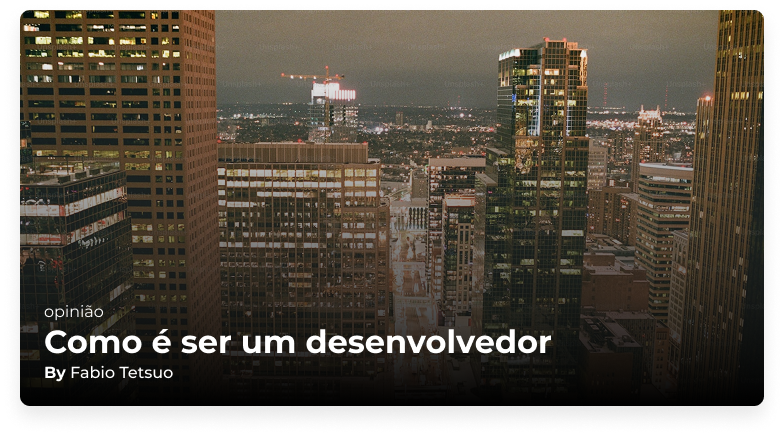
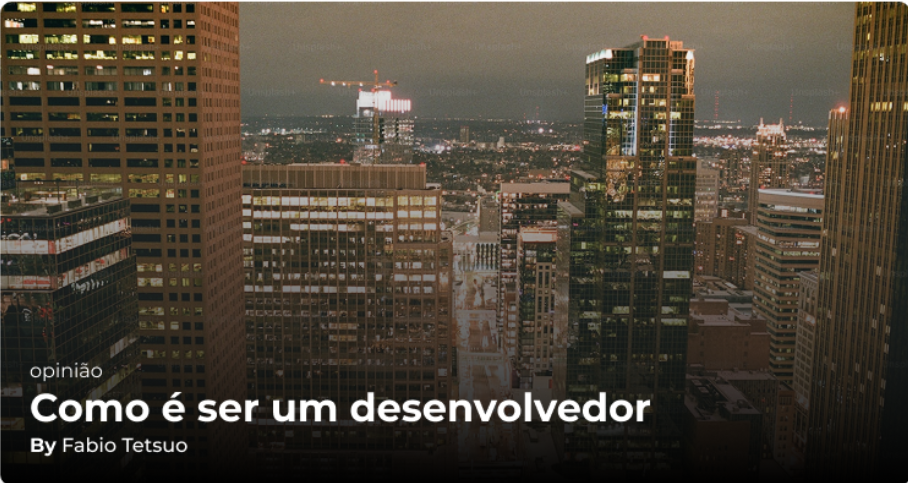
responsividade tablet

diff --git a/index.html b/index.html
@@ -16,127 +16,138 @@
     <header class="title">
         <h1>The Dev News</h1>
     </header>
-    <!-- MAIN -->
-    <main>
-        <section class="banner">
-            <img id="banner-img" src="./assets/banner.png" alt="">
-            <!-- <div id="banner-info">
-                <span>opnião</span>
-                <h1>Como é ser um desenvolvedor</h1>
-                <p><b>by</b> Fabio Tetsuo</p>
-            </div> -->
-        </section>
-        <section class="last-posts-title">
-            <h2>Posts mais recentes</h2>
-            <a href="#">Ver todos</a>
-        </section>
-        <section class="last-posts">
-            <ul class="last-posts-list">
-                <li class="last-posts-item">
-                    <img src="./assets/post1.svg" alt="">
-                    <div class="post-info">
-                        <p id="theme">desenvolvimento</p>
-                        <h3 id="title">Desenvolvimento mobile</h3>
-                        <p><b>By</b> Fabio Tetsuo</p>
-                        <p>
-                            Lorem ipsum dolor sit amet consectetur. 
-                            In vitae urna commodo amet congue integer 
-                            dapibus. Interdum semper mauris convallis 
-                            fusce enim odio. Vitae montes ridiculus felis.
-                        </p>
-                        <span>22 Agosto 2022</span>
+    <!-- CONTAINER -->
+    <div id="container">
+        <!-- MAIN -->
+        <main>
+            <section class="banner">
+                <img id="banner-img" src="./assets/banner.png" alt="">
+                <!-- <div id="banner-info">
+                    <span>opnião</span>
+                    <h1>Como é ser um desenvolvedor</h1>
+                    <p><b>by</b> Fabio Tetsuo</p>
+                </div> -->
+            </section>
+            <section class="last-posts-title">
+                <h2>Posts mais recentes</h2>
+                <a href="#">Ver todos</a>
+            </section>
+            <section class="last-posts">
+                <ul class="last-posts-list">
+                    <li class="last-posts-item">
+                        <img src="./assets/post1.svg" alt="">
+                        <div class="post-info">
+                            <p id="theme">desenvolvimento</p>
+                            <h3 id="title">Desenvolvimento mobile</h3>
+                            <p><b>By</b> Fabio Tetsuo</p>
+                            <p>
+                                Lorem ipsum dolor sit amet consectetur. 
+                                In vitae urna commodo amet congue integer 
+                                dapibus. Interdum semper mauris convallis 
+                                fusce enim odio. Vitae montes ridiculus felis.
+                            </p>
+                            <span>22 Agosto 2022</span>
+                        </div>
+                    </li>
+                    <li class="last-posts-item">
+                        <img src="./assets/post2.svg" alt="">
+                        <div class="post-info">
+                            <p id="theme">saúde</p>
+                            <h3 id="title">Balancear vida profissional e pessoal</h3>
+                            <p><b>By</b> Ridho Satriawan</p>
+                            <p>
+                                Lorem ipsum dolor sit amet consectetur. 
+                                In vitae urna commodo amet congue integer 
+                                dapibus. Interdum semper mauris convallis 
+                                fusce enim odio. Vitae montes ridiculus felis.
+                            </p>
+                            <span>22 Agosto 2022</span>
+                        </div>
+                    </li>
+                    <li class="last-posts-item">
+                        <img src="./assets/post3.svg" alt="">
+                        <div class="post-info">
+                            <p id="theme">desenvolvimento</p>
+                            <h3 id="title">Configurando VSCode</h3>
+                            <p><b>By</b> Fabio Tetsuo</p>
+                            <p>
+                                Lorem ipsum dolor sit amet consectetur. 
+                                In vitae urna commodo amet congue integer 
+                                dapibus. Interdum semper mauris convallis 
+                                fusce enim odio. Vitae montes ridiculus felis.
+                            </p>
+                            <span>22 Agosto 2022</span>
+                        </div>
+                    </li>
+                    <li class="last-posts-item">
+                        <img src="./assets/post4.svg" alt="">
+                        <div class="post-info">
+                            <p id="theme">produtividade</p>
+                            <h3 id="title">2 monitores ou 1 ultrawide</h3>
+                            <p><b>By</b> Fulano da Silva</p>
+                            <p>
+                                Lorem ipsum dolor sit amet consectetur. 
+                                In vitae urna commodo amet congue integer 
+                                dapibus. Interdum semper mauris convallis 
+                                fusce enim odio. Vitae montes ridiculus felis.
+                            </p>
+                            <span>22 Agosto 2022</span>
+                        </div>
+                    </li>
+                </ul>
+            </section>
+        </main>
+        <!-- ASIDE -->
+        <aside>
+            <section class="pop-posts">
+                <h2 class="title" id="pop-posts-title">Posts Populares</h2>
+                <div class="pop-posts-item">
+                    <img src="./assets/pop-post1.svg" alt="">
+                    <div>
+                        <h3>Desenvolvimento atual</h3>
+                        <p>22 Agosto 2025</p>
                     </div>
-                </li>
-                <li class="last-posts-item">
-                    <img src="./assets/post2.svg" alt="">
-                    <div class="post-info">
-                        <p id="theme">saúde</p>
-                        <h3 id="title">Balancear vida profissional e pessoal</h3>
-                        <p><b>By</b> Ridho Satriawan</p>
-                        <p>
-                            Lorem ipsum dolor sit amet consectetur. 
-                            In vitae urna commodo amet congue integer 
-                            dapibus. Interdum semper mauris convallis 
-                            fusce enim odio. Vitae montes ridiculus felis.
-                        </p>
-                        <span>22 Agosto 2022</span>
-                    </div>
-                </li>
-                <li class="last-posts-item">
-                    <img src="./assets/post3.svg" alt="">
-                    <div class="post-info">
-                        <p id="theme">desenvolvimento</p>
-                        <h3 id="title">Configurando VSCode</h3>
-                        <p><b>By</b> Fabio Tetsuo</p>
-                        <p>
-                            Lorem ipsum dolor sit amet consectetur. 
-                            In vitae urna commodo amet congue integer 
-                            dapibus. Interdum semper mauris convallis 
-                            fusce enim odio. Vitae montes ridiculus felis.
-                        </p>
-                        <span>22 Agosto 2022</span>
-                    </div>
-                </li>
-                <li class="last-posts-item">
-                    <img src="./assets/post4.svg" alt="">
-                    <div class="post-info">
-                        <p id="theme">produtividade</p>
-                        <h3 id="title">2 monitores ou 1 ultrawide</h3>
-                        <p><b>By</b> Fulano da Silva</p>
-                        <p>
-                            Lorem ipsum dolor sit amet consectetur. 
-                            In vitae urna commodo amet congue integer 
-                            dapibus. Interdum semper mauris convallis 
-                            fusce enim odio. Vitae montes ridiculus felis.
-                        </p>
-                        <span>22 Agosto 2022</span>
-                    </div>
-                </li>
-            </ul>
-        </section>
-    </main>
-    <!-- ASIDE -->
-    <aside>
-        <section class="pop-posts">
-            <h2 class="title" id="pop-posts-title">Posts Populares</h2>
-            <div class="pop-posts-item">
-                <img src="./assets/pop-post1.svg" alt="">
-                <div>
-                    <h3>Desenvolvimento atual</h3>
-                    <p>22 Agosto 2025</p>
                 </div>
-            </div>
-            <div class="pop-posts-item">
-                <img src="./assets/pop-post2.svg" alt="">
-                <div>
-                    <h3>GitLab vs GitHub</h3>
-                    <p>22 Agosto 2025</p>
+                <div class="pop-posts-item">
+                    <img src="./assets/pop-post2.svg" alt="">
+                    <div>
+                        <h3>GitLab vs GitHub</h3>
+                        <p>22 Agosto 2025</p>
+                    </div>
                 </div>
-            </div>
-            <div class="pop-posts-item">
-                <img src="./assets/pop-post3.svg" alt="">
-                <div>
-                    <h3>Café atrapalha?</h3>
-                    <p>22 Agosto 2025</p>
+                <div class="pop-posts-item">
+                    <img src="./assets/pop-post3.svg" alt="">
+                    <div>
+                        <h3>Café atrapalha?</h3>
+                        <p>22 Agosto 2025</p>
+                    </div>
                 </div>
-            </div>
-        </section>
-        <section class="categories">
-            <h2 class="title" id="categories-title">Categorias</h2>
-            <ul class="categories-list">
-                <li>
-                    > saude <span>(1)</span>
-                </li>
-                <li>
-                    > desenvolvimento <span>(2)</span>
-                </li><li>
-                    > produtividade <span>(2)</span>
-                </li><li>
-                    > opnião <span>(1)</span>
-                </li>
-            </ul>
-        </section>
-    </aside>
+            </section>
+            <section class="categories">
+                <h2 class="title" id="categories-title">Categorias</h2>
+                <ul class="categories-list">
+                    <li>
+                        <a href="#">
+                            > saude <span>(1)</span>
+                        </a>
+                    </li>
+                    <li>
+                        <a href="#">
+                            > desenvolvimento <span>(2)</span>
+                        </a>
+                    </li><li>
+                        <a href="#">
+                            > produtividade <span>(2)</span>
+                        </a>
+                    </li><li>
+                        <a href="#">
+                            > opnião <span>(1)</span>
+                        </a>
+                    </li>
+                </ul>
+            </section>
+        </aside>
+    </div>
     <!-- FOOTER -->
     <footer>
         <span id="copyrightht">Copyright@The Dev News</span>

diff --git a/style.css b/style.css
@@ -7,12 +7,8 @@
 a {
     text-decoration: none;
 }
-body {
-    display: grid;
-    grid-template-columns: 2fr 1fr;
-    gap: 20px;
-    max-width: 1129px;
-    margin: auto;
+li {
+    list-style: none;
 }
 .title {
     background-color: #02A28F;
@@ -30,15 +26,26 @@ header {
     grid-column: span 2;
 }
 header h1 {
+    font-weight: 700;
+    font-size: 2.25rem;
+    line-height: 100%;
+    letter-spacing: 0%;
     margin-left: 9.75rem;
+}
+#container {
+    display: grid;
+    grid-template-columns: 2fr 1fr;
+    gap: 20px;
+    max-width: 1129px;
+    margin: 3.125rem auto;
 }
 #banner-img {
     border-radius: 0.625rem;
-    margin-left: 8.75rem;
+    width: 46.5rem;
+    margin-bottom: 1.5rem;
 }
 .last-posts {
     width: 46.5rem;
-    margin-left: 9.75rem;
 }
 .last-posts-title {
     display: flex;
@@ -47,10 +54,8 @@ header h1 {
     background-color: #02A28F;
     color: #ffffff;
     padding: 1rem 1.5rem;
-    margin-left: 9.75rem;
     margin-bottom: 0.6875rem;
     border-radius: 0.5rem;
-    max-width: 46.5rem;
 }
 .last-posts-title a {
     color: #ffffff;
@@ -116,7 +121,8 @@ header h1 {
 .categories-list li:first-child {
     margin-top: 1rem;
 }
-.categories-list li {
+.categories-list li a {
+    color: #000000;
     display: flex;
     justify-content: space-between;
 }
@@ -132,8 +138,18 @@ footer  {
     padding: 1.0625rem;
     grid-column: span 2;
 }
-@media screen and (max-width: 70.5625rem) {
-    body {
+@media screen and (max-width: 1200px) {
+    #container {
         grid-template-columns: 1fr;
+    }
+    header {
+        grid-column: auto;
+    }
+    #banner-img {
+        width: 100%;
+    }
+    .last-posts-list {
+        grid-auto-flow: column;
+        grid-template-columns: auto;
     }
 }
